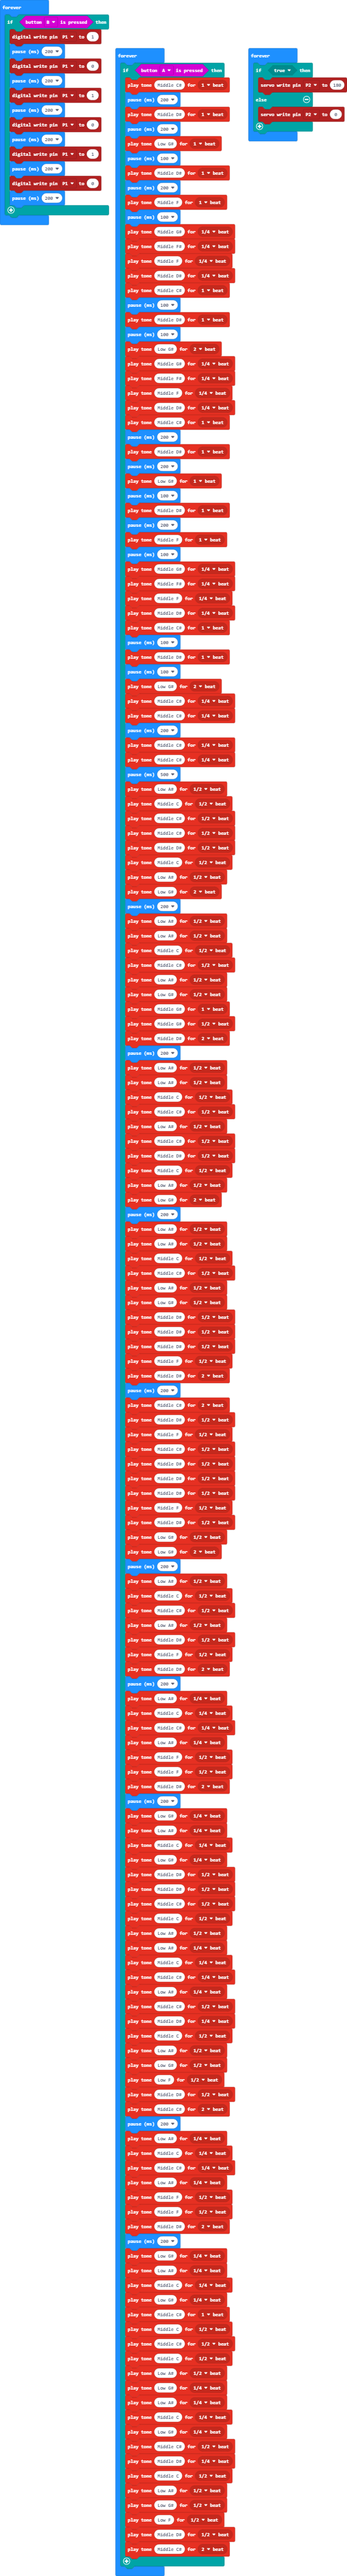
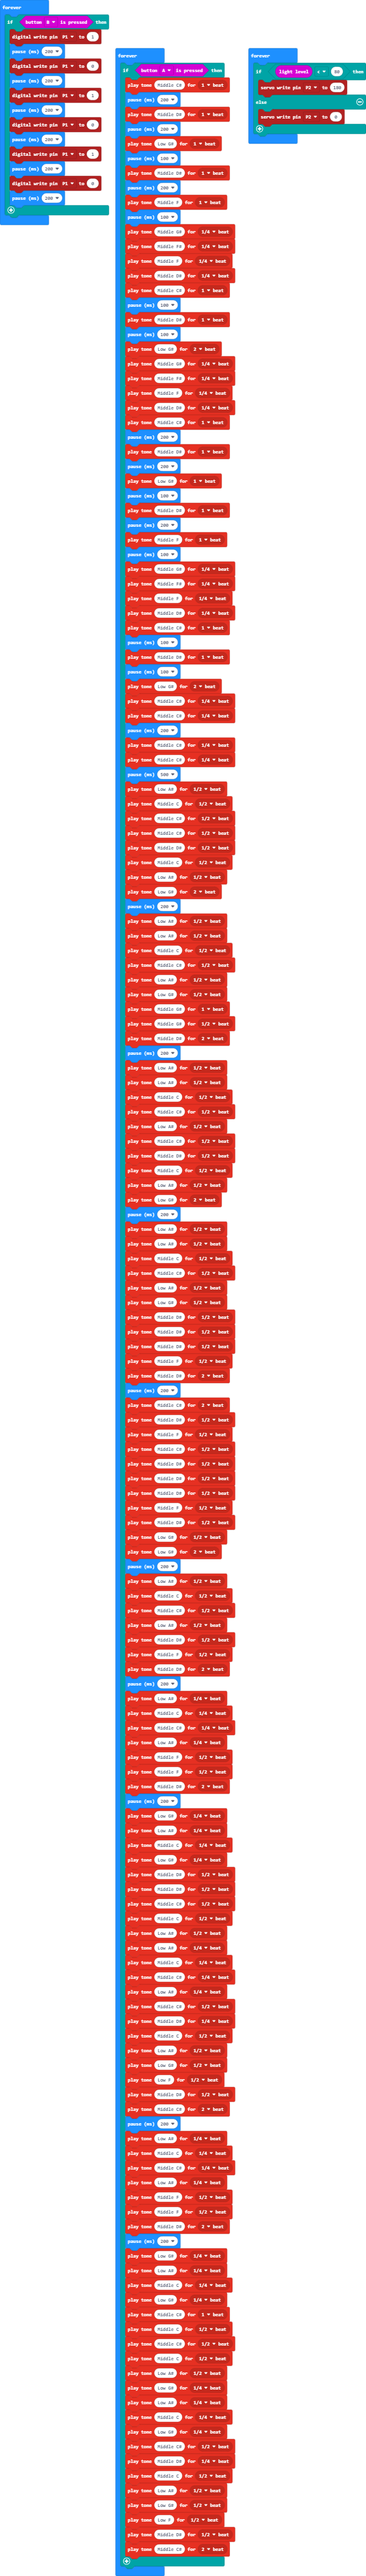
Update main.blocks, main.ts

Changed region(s): [[0.239, 0.0, 1.0, 1.0], [0.0, 0.0, 0.2091, 0.0932]]

diff --git a/main.ts b/main.ts
@@ -188,7 +188,7 @@ basic.forever(function () {
     }
 })
 basic.forever(function () {
-    if (true) {
+    if (input.lightLevel() < 80) {
         pins.servoWritePin(AnalogPin.P2, 180)
     } else {
         pins.servoWritePin(AnalogPin.P2, 0)
